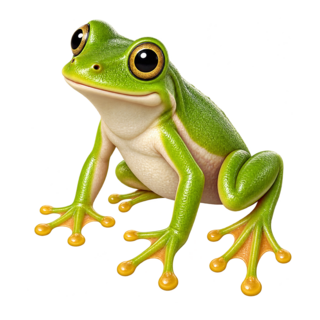
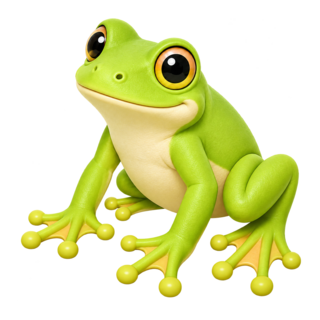
Fix dog asset and soften frog design

diff --git a/sw.js b/sw.js
@@ -2,7 +2,7 @@
 // (the whole point: this app is meant to be used out and about).
 // Paths are relative to this file's own location, so it works whether the
 // site is hosted at a domain root or a GitHub Pages project subpath.
-const CACHE_VERSION = 'v31';
+const CACHE_VERSION = 'v32';
 const CACHE_NAME = `asobibako-${CACHE_VERSION}`;
 
 const PRECACHE_URLS = [
